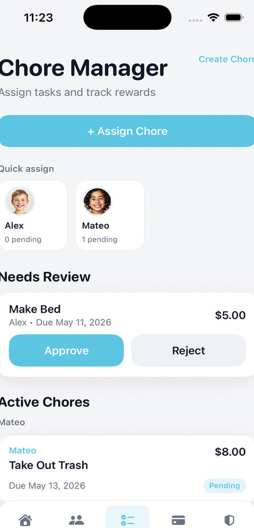
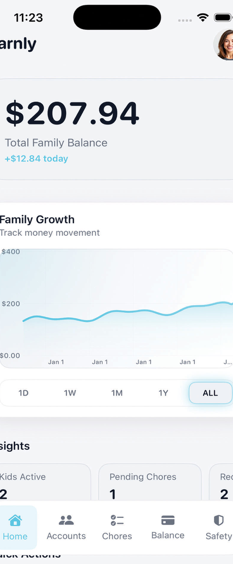
Add Earnly phone fan with the new marketing screenshots
Show Earnly as a five-phone fan on the homepage cinematic stage and refresh the Earnly app gallery with the new mockups and captions.

diff --git a/src/components/home/CinematicHome.tsx b/src/components/home/CinematicHome.tsx
@@ -32,7 +32,7 @@ const APP_LOOP = ["earnly", "scholars", "ballr", "fresher"] as const;
 const LOOP_COUNT = 2;
 
 const SCREENS = {
-  earnly: "/images/home/cinematic/earnly.png",
+  earnly: "/images/home/cinematic/earnly-home.png",
   scholars: "/images/home/cinematic/scholars.png",
   ballr: "/images/home/cinematic/ballr-badge.png",
   fresher: "/images/home/cinematic/fresher.png",
@@ -40,7 +40,7 @@ const SCREENS = {
 
 /** Phone-shaped screenshots for the opening 4-up row. */
 const INTRO_SCREENS = {
-  earnly: "/images/home/cinematic/earnly.png",
+  earnly: "/images/home/cinematic/earnly-home.png",
   scholars: "/images/home/cinematic/scholars-phone.png",
   ballr: "/images/home/cinematic/ballr-badge.png",
   fresher: "/images/home/cinematic/fresher.png",
@@ -91,6 +91,55 @@ const FAN_PHONES = [
     y: 40,
     scale: 0.82,
     z: 2,
+  },
+] as const;
+
+/** Earnly fan — separate phones with captions, like Ballr. */
+const EARNLY_FAN = [
+  {
+    src: "/images/home/cinematic/earnly-home.png",
+    caption: "Watch your family money grow.",
+    rotate: -20,
+    x: "-36vw",
+    y: 48,
+    scale: 0.74,
+    z: 1,
+  },
+  {
+    src: "/images/home/cinematic/earnly-chores.png",
+    caption: "Turn chores into real earnings.",
+    rotate: -10,
+    x: "-18vw",
+    y: 22,
+    scale: 0.86,
+    z: 3,
+  },
+  {
+    src: "/images/home/cinematic/earnly-accounts.png",
+    caption: "Every kid gets their own account.",
+    rotate: 0,
+    x: "0vw",
+    y: 4,
+    scale: 0.96,
+    z: 5,
+  },
+  {
+    src: "/images/home/cinematic/earnly-balance.png",
+    caption: "Move money in a couple taps.",
+    rotate: 10,
+    x: "18vw",
+    y: 22,
+    scale: 0.86,
+    z: 3,
+  },
+  {
+    src: "/images/home/cinematic/earnly-safety.png",
+    caption: "Know they're safe, wherever they go.",
+    rotate: 20,
+    x: "36vw",
+    y: 48,
+    scale: 0.74,
+    z: 1,
   },
 ] as const;
 
@@ -288,6 +337,7 @@ export function CinematicHome() {
       gsap.set(el(root, "[data-phone]"), { opacity: 0 });
       gsap.set(el(root, "[data-ipad]"), { opacity: 0 });
       gsap.set(el(root, "[data-ballr-fan]"), { opacity: 0 });
+      gsap.set(el(root, "[data-earnly-fan]"), { opacity: 0 });
       gsap.set(els(root, "[data-copy]"), { opacity: 0 });
       return;
     }
@@ -382,6 +432,8 @@ export function CinematicHome() {
       gsap.set(els(root, "[data-copy]"), { opacity: 0, y: 0 });
       gsap.set(el(root, "[data-ballr-fan]"), { opacity: 0 });
       gsap.set(els(root, "[data-ballr-phone]"), { opacity: 0 });
+      gsap.set(el(root, "[data-earnly-fan]"), { opacity: 0 });
+      gsap.set(els(root, "[data-earnly-phone]"), { opacity: 0 });
 
       const fadeCopy = (
         key: string,
@@ -498,7 +550,7 @@ export function CinematicHome() {
         const c = start + span * 0.7;
         const d = end;
 
-        if (key !== "ballr") {
+        if (key !== "ballr" && key !== "earnly") {
           fadeCopy(key, start, end, holdOut);
         }
 
@@ -618,6 +670,101 @@ export function CinematicHome() {
               nextStart + 0.02,
             );
           }
+        } else if (key === "earnly") {
+          fadeCopy("earnly", start, end, holdOut);
+
+          tl.to(
+            el(root, "[data-phone]"),
+            {
+              opacity: 0,
+              scale: 0.7,
+              filter: "blur(6px)",
+              duration: 0.06,
+            },
+            start,
+          );
+
+          const earnlyPhones = els(root, "[data-earnly-phone]");
+          earnlyPhones.forEach((item, i) => {
+            const fan = EARNLY_FAN[i];
+            if (!fan) return;
+            gsap.set(item, {
+              xPercent: -50,
+              x: fan.x,
+              y: fan.y + 80,
+              rotate: fan.rotate * 1.4,
+              scale: fan.scale * 0.85,
+              opacity: 0,
+              transformOrigin: "50% 100%",
+            });
+            tl.to(
+              item,
+              {
+                opacity: 1,
+                y: fan.y,
+                rotate: fan.rotate,
+                scale: fan.scale,
+                filter: "blur(0px)",
+                duration: 0.08,
+              },
+              start + 0.02 + i * 0.012,
+            );
+          });
+          tl.to(
+            el(root, "[data-earnly-fan]"),
+            { opacity: 1, duration: 0.05 },
+            start + 0.02,
+          );
+          tl.to(
+            el(root, "[data-earnly-fan]"),
+            {
+              y: -6,
+              duration: Math.max(0.05, end - start - 0.12),
+            },
+            start + 0.1,
+          );
+
+          if (!holdOut) {
+            const nextStart = windows[index + 1]?.start ?? end;
+            earnlyPhones.forEach((item, i) => {
+              const fan = EARNLY_FAN[i];
+              const side = i < earnlyPhones.length / 2 ? -1 : 1;
+              tl.to(
+                item,
+                {
+                  opacity: 0,
+                  xPercent: -50,
+                  x: fan?.x ?? 0,
+                  y: (fan?.y ?? 0) - 70,
+                  rotate: (fan?.rotate ?? 0) + side * 20,
+                  scale: (fan?.scale ?? 1) * 0.7,
+                  filter: "blur(8px)",
+                  duration: 0.08,
+                },
+                nextStart,
+              );
+            });
+            tl.to(
+              el(root, "[data-earnly-fan]"),
+              { opacity: 0, duration: 0.06 },
+              nextStart,
+            );
+            tl.to(
+              el(root, "[data-phone]"),
+              {
+                opacity: 1,
+                scale: 1,
+                rotate: 0,
+                rotateY: 0,
+                rotateX: 0,
+                x: 0,
+                y: 0,
+                filter: "blur(0px)",
+                duration: 0.09,
+              },
+              nextStart + 0.02,
+            );
+          }
         } else if (key === "ballr") {
           fadeCopy("ballr", start, end, holdOut);
 
@@ -717,9 +864,9 @@ export function CinematicHome() {
             );
           }
         } else {
+          // Fresher (and any other single-phone app stages).
           showPhoneScreen(key, start, end, holdOut);
 
-          const punch = key === "fresher" ? 1.04 : 1.02;
           tl.to(
             el(root, "[data-phone]"),
             {
@@ -727,8 +874,8 @@ export function CinematicHome() {
               y: -6,
               rotate: tilt * 0.85 * dir,
               rotateY: -yaw * 0.7 * dir,
-              rotateX: key === "fresher" ? 6 : -3,
-              scale: punch,
+              rotateX: 6,
+              scale: 1.04,
               duration: Math.max(0.04, b - a),
             },
             a,
@@ -737,7 +884,7 @@ export function CinematicHome() {
             el(root, "[data-phone]"),
             {
               x: -travel * 0.4 * dir,
-              y: key === "earnly" ? 10 : 4,
+              y: 4,
               rotate: -tilt * 0.7 * dir,
               rotateY: yaw * 0.85 * dir,
               rotateX: 2,
@@ -801,6 +948,7 @@ export function CinematicHome() {
             new Set([
               ...Object.values(SCREENS),
               ...Object.values(INTRO_SCREENS),
+              ...EARNLY_FAN.map((beat) => beat.src),
               ...BALLR_FAN.map((beat) => beat.src),
             ]),
           ).map((src) => (
@@ -900,7 +1048,7 @@ export function CinematicHome() {
             key={stage.key}
             data-copy={stage.key}
             className={
-              stage.key === "ballr"
+              stage.key === "ballr" || stage.key === "earnly"
                 ? "pointer-events-none absolute inset-x-0 bottom-[3.5%] z-30 flex flex-col items-center px-6 text-center will-change-[opacity]"
                 : "pointer-events-none absolute inset-x-0 top-[max(4.75rem,9vh)] z-30 flex h-[min(22vh,150px)] flex-col items-center justify-end px-6 text-center will-change-[opacity] md:top-[max(5.25rem,10vh)]"
             }
@@ -923,6 +1071,57 @@ export function CinematicHome() {
             </h2>
           </div>
         ))}
+
+        <div
+          data-earnly-fan
+          className="pointer-events-none absolute inset-x-0 top-[max(5rem,10vh)] z-20 flex h-[min(62vh,580px)] flex-col items-center justify-end will-change-transform"
+          style={{ opacity: 0 }}
+        >
+          <div
+            className="relative mx-auto h-full w-full max-w-6xl"
+            style={{ perspective: "1600px" }}
+          >
+            {EARNLY_FAN.map((phone) => (
+              <div
+                key={phone.src}
+                data-earnly-phone
+                className="absolute bottom-[6%] left-1/2 will-change-transform"
+                style={{
+                  zIndex: phone.z,
+                  transformOrigin: "50% 100%",
+                  opacity: 0,
+                }}
+              >
+                <p
+                  className="mb-2 max-w-[10rem] text-center text-[10px] font-semibold leading-tight tracking-tight text-white sm:mb-3 sm:max-w-[12rem] sm:text-xs"
+                  style={{
+                    textShadow: "0 2px 14px rgba(0,0,0,0.55)",
+                  }}
+                >
+                  {phone.caption}
+                </p>
+                <div
+                  className="pointer-events-none absolute -inset-8 top-6 -z-10 rounded-full opacity-60 blur-2xl"
+                  style={{
+                    background:
+                      "radial-gradient(ellipse at center, #5CE1FF88 0%, transparent 70%)",
+                  }}
+                  aria-hidden
+                />
+                <FanPhoneFrame>
+                  <Image
+                    src={phone.src}
+                    alt=""
+                    fill
+                    sizes="(max-width: 768px) 22vw, 170px"
+                    className="object-cover object-top"
+                    priority
+                  />
+                </FanPhoneFrame>
+              </div>
+            ))}
+          </div>
+        </div>
 
         <div
           data-ballr-fan
@@ -1060,7 +1259,7 @@ export function CinematicHome() {
           >
             <PhoneFrame>
               {(Object.keys(SCREENS) as Array<keyof typeof SCREENS>)
-                .filter((k) => k !== "scholars" && k !== "ballr")
+                .filter((k) => k !== "scholars" && k !== "ballr" && k !== "earnly")
                 .map((key) => (
                   <div
                     key={key}
@@ -1074,7 +1273,7 @@ export function CinematicHome() {
                       fill
                       sizes="(max-width: 768px) 70vw, 280px"
                       className="object-cover object-top"
-                      priority={key === "earnly"}
+                      priority={key === "fresher"}
                     />
                   </div>
                 ))}

diff --git a/config/brand.ts b/config/brand.ts
@@ -231,29 +231,29 @@ export const apps: AppConfig[] = [
     screenshotAspect: "37/80",
     screenshots: [
       {
-        path: "/images/apps/earnly/marketing-family-balance.png",
+        path: "/images/apps/earnly/mockup-home.png",
         alt: "Earnly home screen with total family balance and a growth chart",
-        caption: "Family dashboard",
+        caption: "Watch your family money grow.",
       },
       {
-        path: "/images/apps/earnly/marketing-chores.png",
+        path: "/images/apps/earnly/mockup-chores.png",
         alt: "Earnly chore manager assigning tasks and approving rewards",
-        caption: "Chores & rewards",
+        caption: "Turn chores into real earnings.",
       },
       {
-        path: "/images/apps/earnly/marketing-kid-accounts.png",
+        path: "/images/apps/earnly/mockup-accounts.png",
         alt: "Earnly accounts list showing a separate balance for each child",
-        caption: "Kid accounts",
+        caption: "Every kid gets their own account.",
       },
       {
-        path: "/images/apps/earnly/marketing-move-money.png",
+        path: "/images/apps/earnly/mockup-balance.png",
         alt: "Earnly balance screen with deposit, send money, and withdraw actions",
-        caption: "Deposits & transfers",
+        caption: "Move money in a couple taps.",
       },
       {
-        path: "/images/apps/earnly/marketing-safety-map.png",
+        path: "/images/apps/earnly/mockup-safety.png",
         alt: "Earnly family live map showing a child's location in real time",
-        caption: "Family live map",
+        caption: "Know they're safe, wherever they go.",
       },
     ],
     faqs: [
